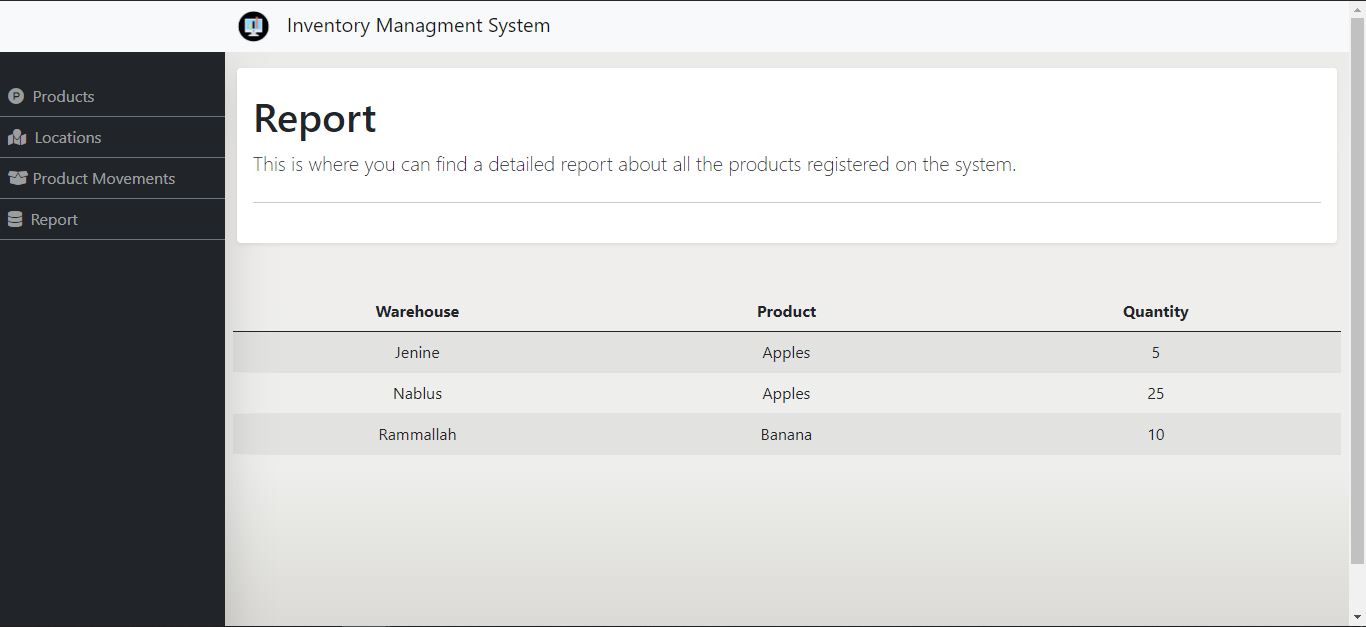
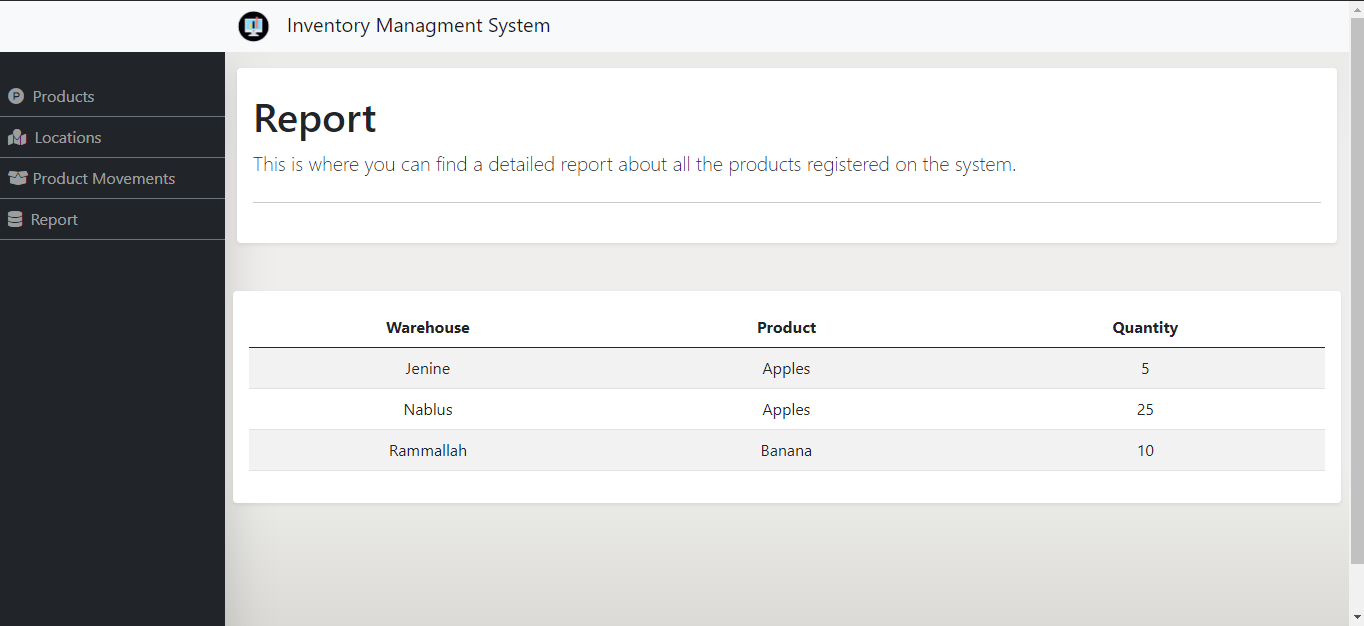
Adding screenshots for the website

diff --git a/flaskr/templates/main/report.html b/flaskr/templates/main/report.html
@@ -7,6 +7,7 @@
 {% block content %}
         <div class="mx-2">
           <div class="row" >
+            <div class="jumbotron  shadow-sm p-3 mb-5 bg-white rounded " >
             <table class="table table-striped">
                 <thead>
                   <tr>
@@ -32,6 +33,7 @@
                  
                 </tbody>
               </table>
+              </div>
           </div>
         </div>       
 {% endblock content %} 

diff --git a/flaskr/views/location.py b/flaskr/views/location.py
@@ -68,6 +68,8 @@ def create():
             else:
                 filename = "location_default.jpg"
                 
+            if filename is None:
+                filename = "location_default.jpg"    
             exists = check_location_exists(name)
             #check if another location with the same name is already exists in the database, and if true, it flashes an error message
             if exists is not None:
@@ -135,7 +137,9 @@ def update(id):
                     
                if filename == "": 
                     filename = "location_default.jpg"
-                    
+                
+               if filename is None:
+                filename = "location_default.jpg" 
             #if the user didnt attach a new picture the location will have the old image
             else:
                 filename = location['image']

diff --git a/flaskr/views/product.py b/flaskr/views/product.py
@@ -71,6 +71,8 @@ def create():
             else: 
                 filename = "default_image.jpg"
                 
+            if filename is None:
+                filename = "default_image.jpg"    
             exists = check_product_exists(title)
             
             #check if another product with the same name is already exists in the database, and if true, it flashes an error message
@@ -139,9 +141,9 @@ def update(id):
                file = request.files['file']
                filename = save_image(file)
                
-               if filename == "": 
+               if filename == "" or filename is None: 
                     filename = "default_image.jpg"
-        
+
             #if the user didnt attach a new picture the product will have the old image
             else:
                 filename = product['image']

diff --git a/flaskr/__init__.py b/flaskr/__init__.py
@@ -31,19 +31,7 @@ def create_app(test_config=None):
     app.register_blueprint(location.bp)  
     app.register_blueprint(product_movement.bp)
     app.register_blueprint(report.bp)
-    
-    # The main page of the website
-    @app.route("/")
-    @app.route("/home")
-    def home():
-       data = [{'name':"samrah"}]
-       return render_template('main/home.html', data = data)
-    
-     # a simple page that says hello
-    @app.route('/hello')
-    def hello():
-        return 'Hello, World!'
-    
+
     return app
 
 

diff --git a/flaskr/helper/saveImages.py b/flaskr/helper/saveImages.py
@@ -23,7 +23,9 @@ saves the uploaded file if its an allowed type, in the specified uploaded file
 and returns the file name
 """        
 def save_image(file):
+    
     if file and allowed_file(file.filename):
         filename = secure_filename(file.filename)
         file.save(os.path.join(app.config['UPLOAD_FOLDER'], filename))
         return filename
+    
